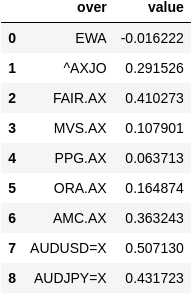
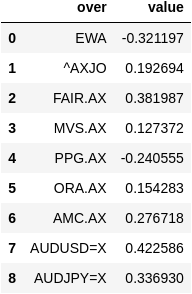
first commit 1.2

diff --git a/first_doc.py b/first_doc.py
@@ -16,6 +16,7 @@ warnings.filterwarnings("ignore")
 import os
 import seaborn as sns
 import dataframe_image as dfi
+from sklearn.preprocessing import MinMaxScaler
 
 def log_return(series):
     return np.log(series).diff()
@@ -59,7 +60,7 @@ pgh = calcs(pgh)
 graph1(pgh, 'Price of PGH.AX')
 
 # From pandemic low
-pandemic_bottom = '2020-03-25'
+pandemic_bottom = '2020-03-20'
 pgh1 = calcs(pgh.loc[pgh.index>=pandemic_bottom])
 graph1(pgh1, 'Price of PGH.AX from pandemic low')
 
@@ -77,11 +78,15 @@ competitors = {'PPG.AX': 'Pro-Pac Packaging Limited', #101M
                'ORA.AX': 'Orora Limited', #3B
                'AMC.AX': 'Amcor plc'} #23B
 
+
 #Linear regressions
 def prep_features(df, df2):
     # df = df.loc[df.index>=pandemic_bottom]
+
     data = df[['log_return']].join(df2['log_return'], rsuffix='_pact')
     data = data.dropna()
+    data['log_return'] = data['log_return']/data['log_return'].max()
+    data['log_return_pact'] = data['log_return_pact']/data['log_return_pact'].max()
     return data
 
 # plot returns
@@ -117,11 +122,14 @@ def graph2(df, title):
 
 # Add performance
 performance = pd.DataFrame(columns=['over', 'value'])
+prices = pgh1[['cum_ret']]
 
 for i in list(indexes):
     bench = yf.Ticker(i)
     bench = bench.history(period='3y', interval='1d')
     bench = calcs(bench.loc[bench.index>=pandemic_bottom])
+    col_name = i+'_Close'
+    prices[col_name] = bench.cum_ret
     
     row = {'over': i, 
            'value': pgh1['cum_ret'][-1]-bench['cum_ret'][-1]}
@@ -136,6 +144,8 @@ for i in list(competitors):
     bench = yf.Ticker(i)
     bench = bench.history(period='3y', interva='1d')
     bench = calcs(bench.loc[bench.index>=pandemic_bottom])
+    col_name = i+'_Close'
+    prices[col_name] = bench.cum_ret
     
     row = {'over': i, 
            'value': pgh1['cum_ret'][-1]-bench['cum_ret'][-1]}
@@ -149,6 +159,9 @@ for i in list(currencies):
     bench = yf.Ticker(i)
     bench = bench.history(period='3y', interva='1d')
     bench = calcs(bench.loc[bench.index>=pandemic_bottom])
+    print(bench.cum_ret)
+    col_name = i+'_Close'
+    prices[col_name] = bench.cum_ret
     
     row = {'over': i, 
            'value': pgh1['cum_ret'][-1]-bench['cum_ret'][-1]}
@@ -156,9 +169,19 @@ for i in list(currencies):
     
     data = prep_features(bench, pgh1)
     graph2(data, title=f'Regression of PACT with {i}')
-
 dfi.export(performance,"plots/performance.png")
 
+prices = prices.dropna()
+
+fig, axs = plt.subplots(1,1,figsize=(12,8))
+axs.grid(alpha=0.5, linestyle='dashed', zorder=-1)
+for c in prices.columns:
+    y = prices[c].values
+    # y = y/y.max()
+    axs.plot(prices.index, y, label=c)
+axs.legend()
+axs.set_title('All comparable cumulative returns since '+pandemic_bottom)
+fig.show()
 
     
     
@@ -169,8 +192,10 @@ dfi.export(performance,"plots/performance.png")
     
     
     
-    
-    
+
+
+
+
 
 
 
